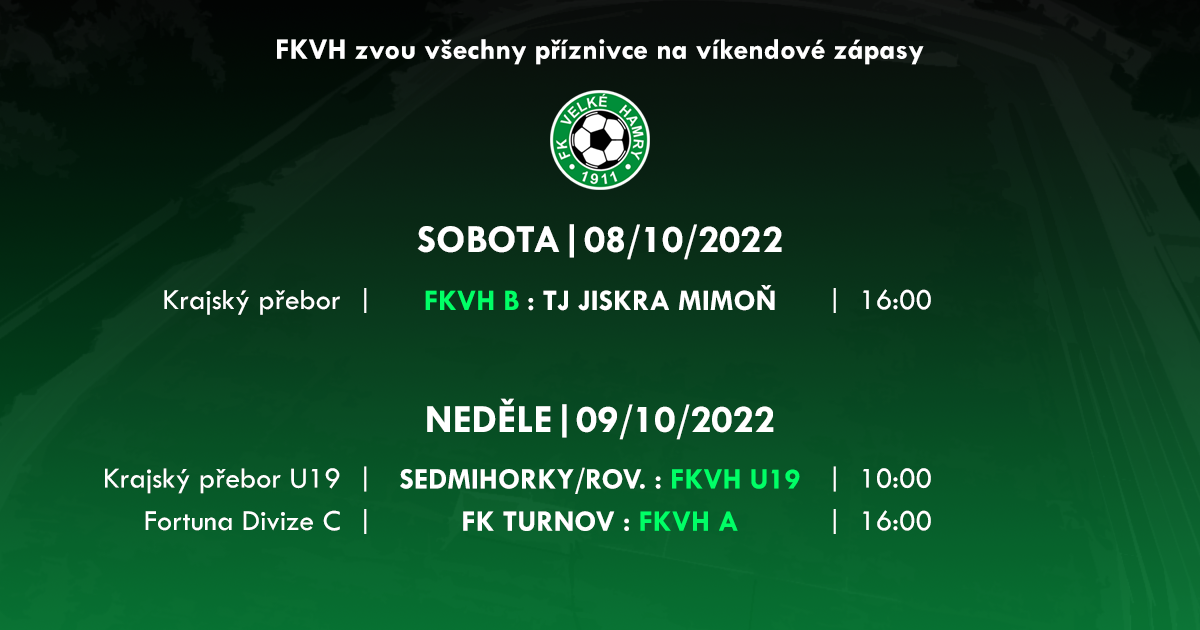
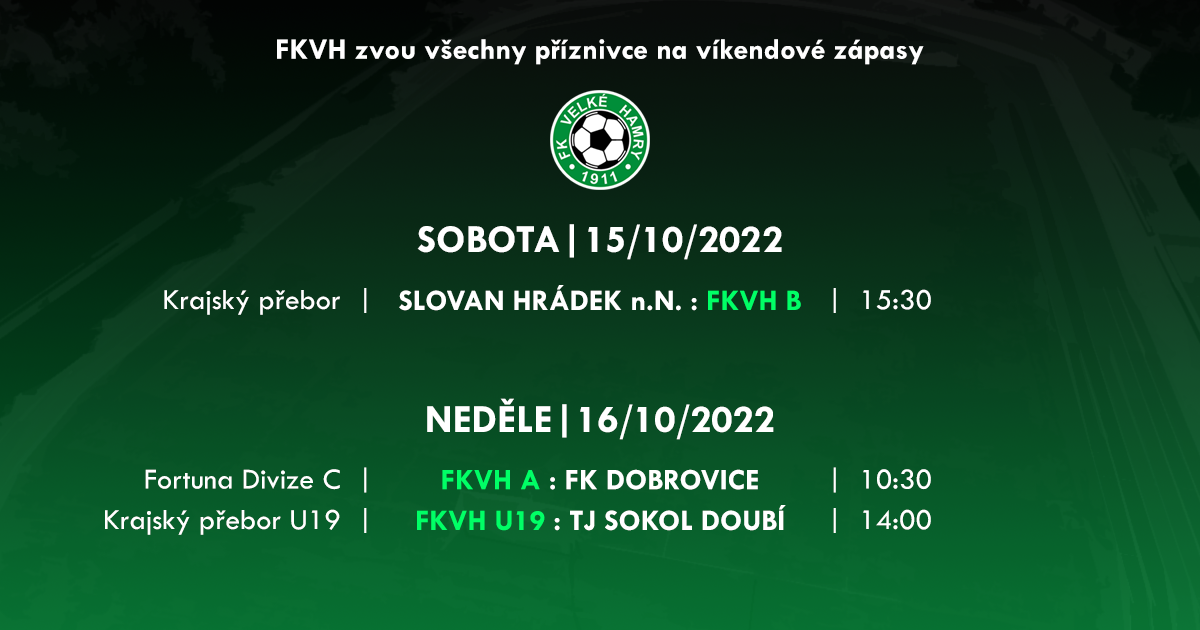
upd

diff --git a/src/index.html b/src/index.html
@@ -185,24 +185,24 @@
 			<div class="row">
 				<div class="col-xs-12 col-sm-12 col-md-12 col-lg-12">
 					<div class="client-text_b">
-					<!--	
+						
 						<p>
-						<b>RUDOLF ŘÍHA NOVÝM TRENÉREM B MUŽSTVA</b>
+						<b>POSILA FKVH</b>
 						<br /><br />
 						
-						<img src="images/trenerBmuzstva.png" title="" class="img-responsive" />
+						<img src="images/posila.png" title="" class="img-responsive" />
 						<br />
-						Novým trenérem B mužstva se stal Rudolf Říha. Asistentem mu bude Petr Javůrek a vedoucí Martina Čejchanová-Balatková.
-						Ať se daří.
+						V září naše barvy přivítaly novou posilu Sebastiana Munzara, který k nám přišel z FK Jablonec a již stihl za Hamry odehrát poslední tři utkání.
+						<br />Munzi, ať se Ti u nás daří!
 						</p>
 						<br />
 						<br />
-					-->
+					
 						<p>
 						<b>POZVÁNKA NA VÍKEND</b>
 						
 						<br /><br />
-						Bulletin k poslednímu domácímu diviznímu utkání <a href="bulletin/bulletin.pdf" target="_blank">ZDE</a>.
+						Bulletin k nadcházejícímu domácímu diviznímu utkání <a href="bulletin/bulletin.pdf" target="_blank">ZDE</a>.
 						
 						<br /><br />
 						
